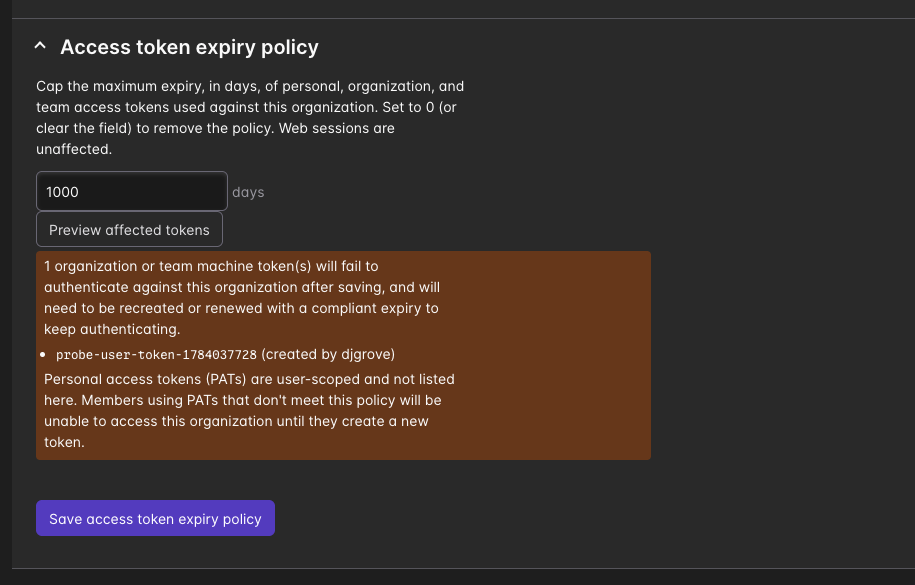
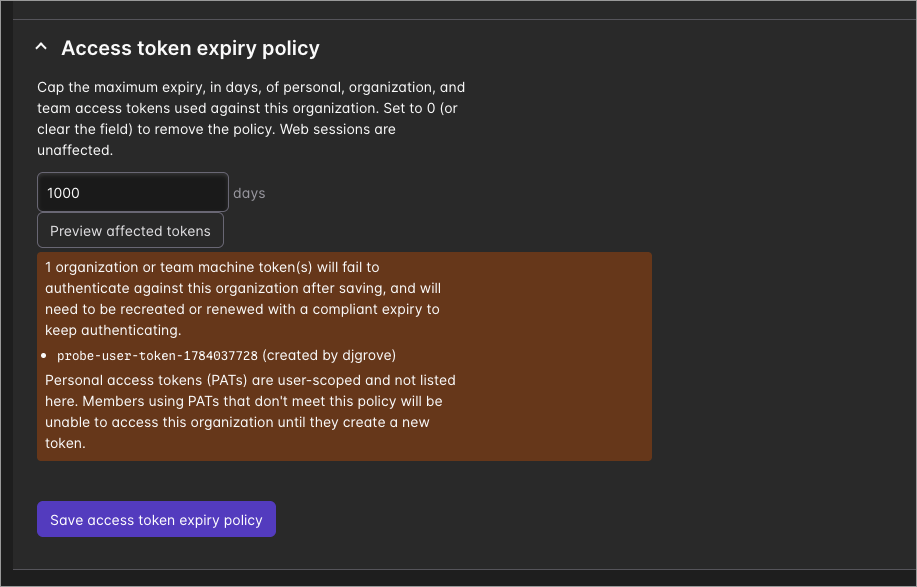
Address docs-review feedback on token expiry policy content
- Replace meta_image screenshot override with a rendered feature image
  (lock + clock-countdown template) per the blog archetype convention
- Drop canonical_url: current feature announcements let the post rank
  and link to docs in-body instead
- Extend the docs exemption list with internally issued credentials
  (deployment agent pool tokens)
- Fix the pre-existing stale nav path for organization tokens
- Add 1px border to the settings screenshot

Claude-Session: https://claude.ai/code/session_019yk8AACv3fac6fSQkTtudT

diff --git a/content/docs/administration/access-identity/access-tokens.md b/content/docs/administration/access-identity/access-tokens.md
@@ -81,7 +81,7 @@ Actions taken by organization tokens appear in audit logs attributed to the orga
 
 ### Who can manage organization tokens
 
-Any organization admin can create, view, and delete organization tokens via **Settings** > **Access Tokens**. Tokens are not owned by the admin who created them — if that person leaves the organization, other admins retain full access. Each token's name must be unique across all organization and team tokens in the organization, including deleted tokens, so that tokens can be reliably identified in audit logs and incident response.
+Any organization admin can create, view, and delete organization tokens via **Settings** > **Access Management** > **Access Tokens**. Tokens are not owned by the admin who created them — if that person leaves the organization, other admins retain full access. Each token's name must be unique across all organization and team tokens in the organization, including deleted tokens, so that tokens can be reliably identified in audit logs and incident response.
 
 Deleting a token immediately revokes its access; all further operations using it will fail as unauthorized. The token name is permanently reserved after deletion to preserve audit log integrity.
 
@@ -135,7 +135,7 @@ A token complies with the policy if it has an expiration date and its remaining 
 
 * **Organization and team tokens** must be created with a compliant expiry once a policy is in place. The token creation dialog caps the expiry picker at the policy maximum, and the API rejects creation requests that exceed it or omit an expiry. Existing tokens that don't meet the policy stop authenticating against the organization and must be recreated with a compliant expiry.
 * **Personal tokens** are user-scoped and span all of a user's organizations, so they can't be blocked at creation. Instead, requests made with a non-compliant personal token against an organization that enforces a policy are rejected, and the member must create a new token with a compliant expiry to regain access to that organization. When a member creates a personal token, the dialog warns them if the chosen expiry doesn't meet the policy of an organization they belong to.
-* **Web console sessions are unaffected**, as are short-lived tokens issued through [OIDC token exchange](/docs/administration/access-identity/oidc-issuers/).
+* **Web console sessions are unaffected**, as are short-lived tokens issued through [OIDC token exchange](/docs/administration/access-identity/oidc-issuers/) and internally issued credentials such as deployment agent pool tokens.
 
 Requests rejected by the policy receive a `403 Forbidden` response whose message names the organization and its policy maximum, so it's clear why the request was refused and how to fix it: generate a new token whose expiry meets the policy.
 

diff --git a/content/blog/access-token-expiry-policy/index.md b/content/blog/access-token-expiry-policy/index.md
@@ -3,14 +3,13 @@ title: "Enforce Access Token Expiry Policies in Pulumi Cloud"
 date: 2026-07-17
 draft: false
 meta_desc: "Organization admins can now cap the maximum expiry of personal, organization, and team access tokens, so no credential outlives your rotation policy."
-meta_image: meta.png
+feature_image: feature.png
 category: product
 authors:
     - devon-grove
 tags:
     - features
     - security
-canonical_url: /docs/administration/access-identity/access-tokens/
 social:
     twitter: |
         A never-expiring access token is a breach waiting for a timeline. Pulumi Cloud organizations can now enforce a maximum expiry on every access token used against them — personal, organization, and team.
